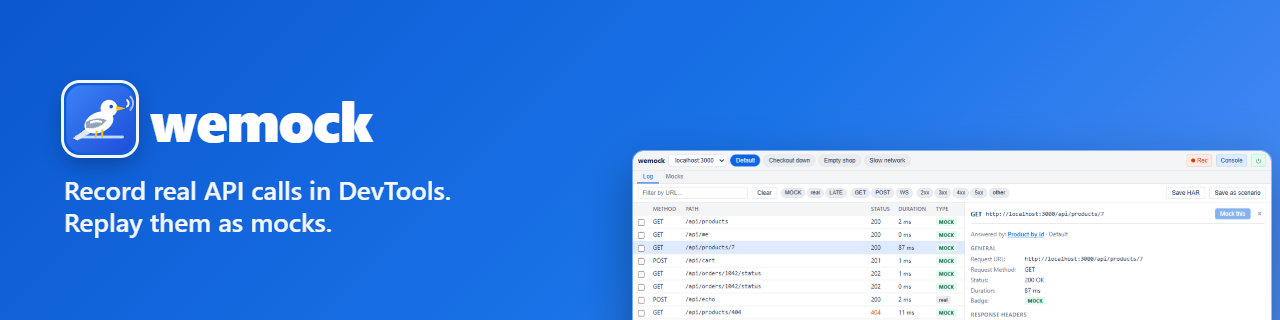
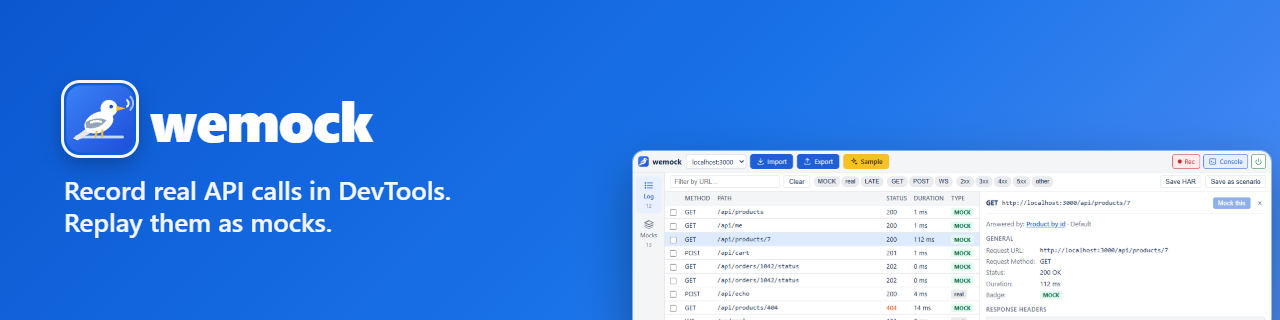
Release 1.9.0: the new panel
A header with Import, Export and Sample; Log and Mocks in a left rail; scenarios made active from
their headers, each with its own icons; no checkboxes; a + menu; messages with Undo; icon buttons
in the editors; bigger text; small panels; a popup with the scenario dropdown and the DevTools
steps. The Test bar is gone. Long lists scroll again, and large text bodies no longer slow the
panel. New Store pictures, and the README points to the Chrome Web Store.

Changed region(s): [[0.5, 0.4688, 0.9062, 1.0], [0.9062, 0.5625, 1.0, 0.6875], [0.9062, 0.4688, 1.0, 0.5312]]

diff --git a/scripts/store/store.spec.ts b/scripts/store/store.spec.ts
@@ -140,24 +140,29 @@ test('store images', async () => {
     // Not Run: its answer sits below the 800 px frame, and running scrolls the editor's header away (A36).
     await shot(panel, 'screenshot-2-code-mock');
 
-    // 4: a SignalR hub (taken before the Test bar runs, so no result shows).
+    // 4: a SignalR hub.
     await panel.getByTestId('socket-row').first().click();
     await expect(panel.getByTestId('socket-name')).toHaveValue('Notifications hub');
     await shot(panel, 'screenshot-4-signalr');
 
-    // 3: the Test bar.
-    await panel.getByTestId('test-method').selectOption('GET');
-    await panel.getByTestId('test-url').fill('/api/products/42');
-    await panel.getByTestId('test-run').click();
-    await expect(panel.getByTestId('test-status')).toBeVisible();
-    await panel.getByTestId('mock-row').filter({ hasText: 'Product by id' }).first().click();
-    await shot(panel, 'screenshot-3-test-bar');
-
-    // 5: one click to another scenario.
-    await panel.getByTestId('scenario-chip').filter({ hasText: 'Checkout down' }).first().click();
+    // 5: one click on a scenario's header makes it the one that answers.
+    const down = panel.locator('.scenario-group').filter({ has: panel.locator('.scenario-name-badge', { hasText: 'Checkout down' }) });
+    await down.getByTestId('scenario-name').click();
+    await expect(down.getByTestId('scenario-active')).toBeVisible();
     await panel.getByTestId('mock-row').filter({ hasText: 'Checkout 503' }).first().click();
     await expect(panel.getByTestId('field-name')).toHaveValue('Checkout 503');
+    // Let the "Checkout down is active" message go before the picture.
+    await panel.waitForTimeout(3500);
     await shot(panel, 'screenshot-5-scenarios');
+
+    // 3: the Log names the mock that answered a call, and its scenario.
+    await page.evaluate(async () => {
+      await fetch('/api/checkout', { method: 'POST', headers: { 'content-type': 'application/json' }, body: '{"cart":"c-1042"}' });
+    });
+    await panel.getByTestId('tab-log').click();
+    await rows.filter({ hasText: '/api/checkout' }).first().click();
+    await expect(panel.getByTestId('answered-by')).toContainText('Checkout down');
+    await shot(panel, 'screenshot-3-answered-by');
 
     // Promo images, drawn from the icon and screenshot 1.
     // A44: the mockingbird, as SVG so it stays sharp at any size.

diff --git a/src/manifest.test.ts b/src/manifest.test.ts
@@ -50,8 +50,8 @@ describe('release manifest (task 10)', () => {
     ? JSON.parse(readFileSync(`${OUT}/manifest.json`, 'utf8'))
     : {};
 
-  it('is version 1.8.0', () => {
-    expect(m.version).toBe('1.8.0');
+  it('is version 1.9.0', () => {
+    expect(m.version).toBe('1.9.0');
   });
 
   it('has icons at 16, 32, 48 and 128, and every file exists', () => {

diff --git a/guide/scenarios.md b/guide/scenarios.md
@@ -14,28 +14,35 @@ still come from Default.
 
 ## Switch
 
-The chips at the top of the panel are your scenarios. Click one to make it active; click
-**Default** to go back. The next call uses the new answers. No reload is needed unless the page
-already made the call.
+In the **Mocks** tab, click a scenario's header to make it active; it turns blue and says
+**Active**. Click **Default** to go back. The next call uses the new answers. No reload is
+needed unless the page already made the call.
+
+The popup (the wemock icon in Chrome's toolbar) has the same choice, as a dropdown.
 
 ## Manage
 
-In the **Mocks** tab:
+**+** at the top of the list adds a mock, a socket mock or a scenario. A new mock goes into the
+active scenario.
 
-| Button | What it does |
+Each scenario's header has its own icons:
+
+| Icon | What it does |
 |---|---|
-| New scenario | an empty scenario |
-| Rename, Duplicate | on the selected scenario; a duplicate copies every mock |
-| Export | saves the selected scenario alone as a file, to share it |
-| Delete, Delete all | with the tick boxes, delete several at once; Default always stays |
+| Pencil | renames it, in place: Enter saves, Escape cancels |
+| Copy | duplicates it, with every mock |
+| Arrow up | saves it alone as a file, to share it |
+| Bin | deletes it; on Default, deletes every mock in it and keeps Default |
 
-Every delete and clear can be undone from the bar that appears.
+The red bin beside the filter deletes every mock and scenario for the site, after asking.
+Every delete can be undone from the message that appears.
 
 Inside a scenario:
 
-- The tick box on a mock switches it on or off, without deleting it.
 - The arrows move a mock up or down. **The first mock that matches answers**, so order matters.
-- **Duplicate** in the mock editor copies a mock.
-- The filter box and the fold arrows keep long lists short.
+- The bin on a row deletes that mock.
+- The switch in the mock editor turns a mock on or off, without deleting it. An off mock is faded.
+- The filter box and the fold arrows keep long lists short. The list scrolls as one, and each
+  scenario's name stays in view over its mocks.
 
 ← [Your first mock](first-mock.md) · Next: [Matching](matching.md) →

diff --git a/CHANGELOG.md b/CHANGELOG.md
@@ -6,8 +6,28 @@ A released block's heading is the version, then the date: `## 0.1.0 — 2026-01-
 released version is also what the `VERSION` file holds, and the name of a git tag (`v` followed
 by the version).
 
-## Unreleased
+## 1.9.0 — 2026-11-17
 
+A new panel, shaped by what people said about 1.8.
+
+- **One header:** Import, Export and the yellow Sample sit at the top, beside the site's project.
+  Rec, Console and On/off are on the right. Log and Mocks moved to a rail on the left.
+- **Import** opens a window: drop or choose a file, see what it holds, then add it or replace
+  everything. A site with nothing yet imports without asking.
+- **Export** offers the whole project, or only the active scenario.
+- **Scenarios:** click a scenario's header to make it active. Each header has its own icons to
+  rename, duplicate, export and delete. Default's bin empties it and keeps it.
+- **No more checkboxes.** A mock's on and off is a switch in its editor; an off mock is faded.
+- **+** adds a mock, a socket mock or a scenario. The red bin beside the filter deletes everything,
+  after asking.
+- **Messages:** every change says what it did, at the bottom of the panel. Deletes have Undo.
+- **Icons in the editors:** duplicate, delete in red, save in blue. Ctrl+S saves.
+- **Bigger text:** 13 px, with labels in sentence case.
+- **Small panels:** docked narrow at the side or short at the bottom, the panel still fits; the
+  list and the editor take turns, with a back arrow.
+- **The popup** picks the active scenario from a dropdown, and says how to open wemock in
+  DevTools.
+- **The Test bar is gone.** The Log's Answered by says which mock answered each call.
 - **Long lists scroll again:** a scenario with hundreds of mocks was cut off at the panel's
   height, so its later mocks, and every scenario after it, could not be reached.
 - **Large text bodies no longer slow the panel:** a body over 100,000 characters, or one that does

diff --git a/README.md b/README.md
@@ -19,7 +19,9 @@ A mockingbird copies the calls of other birds. wemock copies your API's.
 
 ## Get started
 
-wemock is not on the Chrome Web Store yet. Until it is:
+**Add wemock from the [Chrome Web Store](https://chromewebstore.google.com/detail/wemock/meoiipgffocfcgafaakjkodmfmmfoggk).** It is free.
+
+Or load a release yourself:
 
 1. Download `wemock-<version>-chrome.zip` from the
    [latest release](https://github.com/Ank-KhoaHo/wemock/releases/latest), and unzip it.
@@ -76,7 +78,7 @@ host, so the mock answers only that site. → [Your first mock](guide/first-mock
 The Default scenario always applies. Switch on "Checkout down" and checkout answers 503, while
 everything else keeps working. Switch back with one click.
 
-<img src=".github/screens/5-scenarios.png" alt="Four scenarios as chips at the top; Checkout down is on, and its mock answers 503">
+<img src=".github/screens/5-scenarios.png" alt="The Mocks list: Default and three scenarios, each with its own icons; Checkout down is active, and its mock answers 503">
 
 → [Scenarios](guide/scenarios.md)
 
@@ -96,7 +98,7 @@ real call through, then change one field) cover the cases in between. → [Repli
 Every call in the Log says who answered it: the real server, or a mock, by name and scenario.
 Click the name to open that mock.
 
-<img src=".github/screens/3-test-bar.png" alt="The Log: GET /api/products/42 answered by the mock Product by id, from Default">
+<img src=".github/screens/3-answered-by.png" alt="The Log: POST /api/checkout answered by the mock Checkout 503, from the scenario Checkout down">
 
 Each mocked call also writes one line to the page's Console. → [Checking your mocks](guide/checking.md)
 
@@ -113,7 +115,7 @@ socket**.
 
 ## Status
 
-Version 1.8.0, before its first Store release.
+Version 1.9.0, on the [Chrome Web Store](https://chromewebstore.google.com/detail/wemock/meoiipgffocfcgafaakjkodmfmmfoggk) since 2026-11-16.
 
 ## Limits
 

diff --git a/guide/import-export.md b/guide/import-export.md
@@ -2,7 +2,8 @@
 
 ## Import
 
-**Import** in the Mocks tab reads any of these, and finds out which it is by itself:
+**Import** at the top of the panel opens a window: drop a file on it or choose one. wemock reads
+any of these, and finds out which it is by itself:
 
 | File | Becomes |
 |---|---|
@@ -11,18 +12,19 @@
 | OpenAPI 3 or Swagger 2, JSON or YAML | one mock per operation, from its examples |
 | a JSON mock file or mock export | its mocks; function mocks become code mocks |
 
-Then choose:
+It says what it found, then you choose:
 
-- **Add:** keep your mocks and add the file's. Scenarios with the same name get a new one.
-- **Replace:** your mocks for this site become the file's.
-- **Cancel.**
+- **Add to what you have:** keep your mocks and add the file's. Scenarios with the same name get
+  a new one.
+- **Replace everything:** your mocks for this site become the file's.
 
-Both can be undone from the bar that appears.
+Then **Import**, or **Cancel**. Both can be undone from the message that appears. When the site
+has nothing yet, wemock imports without asking.
 
 ## Export
 
-- **Export** (top of the Mocks tab) saves the site's whole project: every scenario and mock.
-- **Export** in the scenario toolbar saves the selected scenario alone.
+- **Export** at the top of the panel saves the site's whole project, or only the active scenario.
+- The arrow on a scenario's header saves that scenario alone.
 - **Save HAR** in the Log saves the calls you see.
 
 A wemock file is plain JSON. Commit it next to your app, and the whole team imports the same
@@ -30,6 +32,7 @@ mocks.
 
 ## Start over
 
-**Clear all** removes every mock and scenario for this site, with Undo.
+The red bin beside **Filter mocks** removes every mock and scenario for this site, after asking,
+with Undo.
 
 ← [Checking your mocks](checking.md) · [Back to the guide](README.md)

diff --git a/guide/install.md b/guide/install.md
@@ -1,8 +1,14 @@
 # Install
 
-wemock is not on the Chrome Web Store yet. Until it is, you load it as an unpacked extension.
+## From the Chrome Web Store
+
+Open [wemock on the Chrome Web Store](https://chromewebstore.google.com/detail/wemock/meoiipgffocfcgafaakjkodmfmmfoggk) and click **Add to Chrome**. Updates come by
+themselves.
 
 ## From a release
+
+To try a version before it reaches the Store, load it as an unpacked extension.
+
 
 1. Download `wemock-<version>-chrome.zip` from the
    [latest release](https://github.com/Ank-KhoaHo/wemock/releases/latest).

diff --git a/guide/first-mock.md b/guide/first-mock.md
@@ -2,7 +2,7 @@
 
 ## Or start from the sample
 
-In an empty Mocks tab, click **Load the sample** (or **Sample** in the toolbar, any time). wemock
+In an empty Mocks tab, click **Load the sample** (or the yellow **Sample** at the top, any time). wemock
 adds a small shop to your site's project: products, a cart with a coupon condition, a stock level
 from code, an order status sequence, a Change real mock, a streamed assistant reply, a SignalR
 order hub, and the scenarios "Checkout down" and "Slow network". It never replaces your mocks,

diff --git a/guide/checking.md b/guide/checking.md
@@ -15,7 +15,7 @@ Each mocked call writes one line to the page's Console:
 [wemock] GET /doc/1 → 200 mock "Doc one" (12 ms)
 ```
 
-The **Console** button at the top of the panel switches it off and on.
+The **Console** button at the top right of the panel switches it off and on.
 
 ## The Log
 
